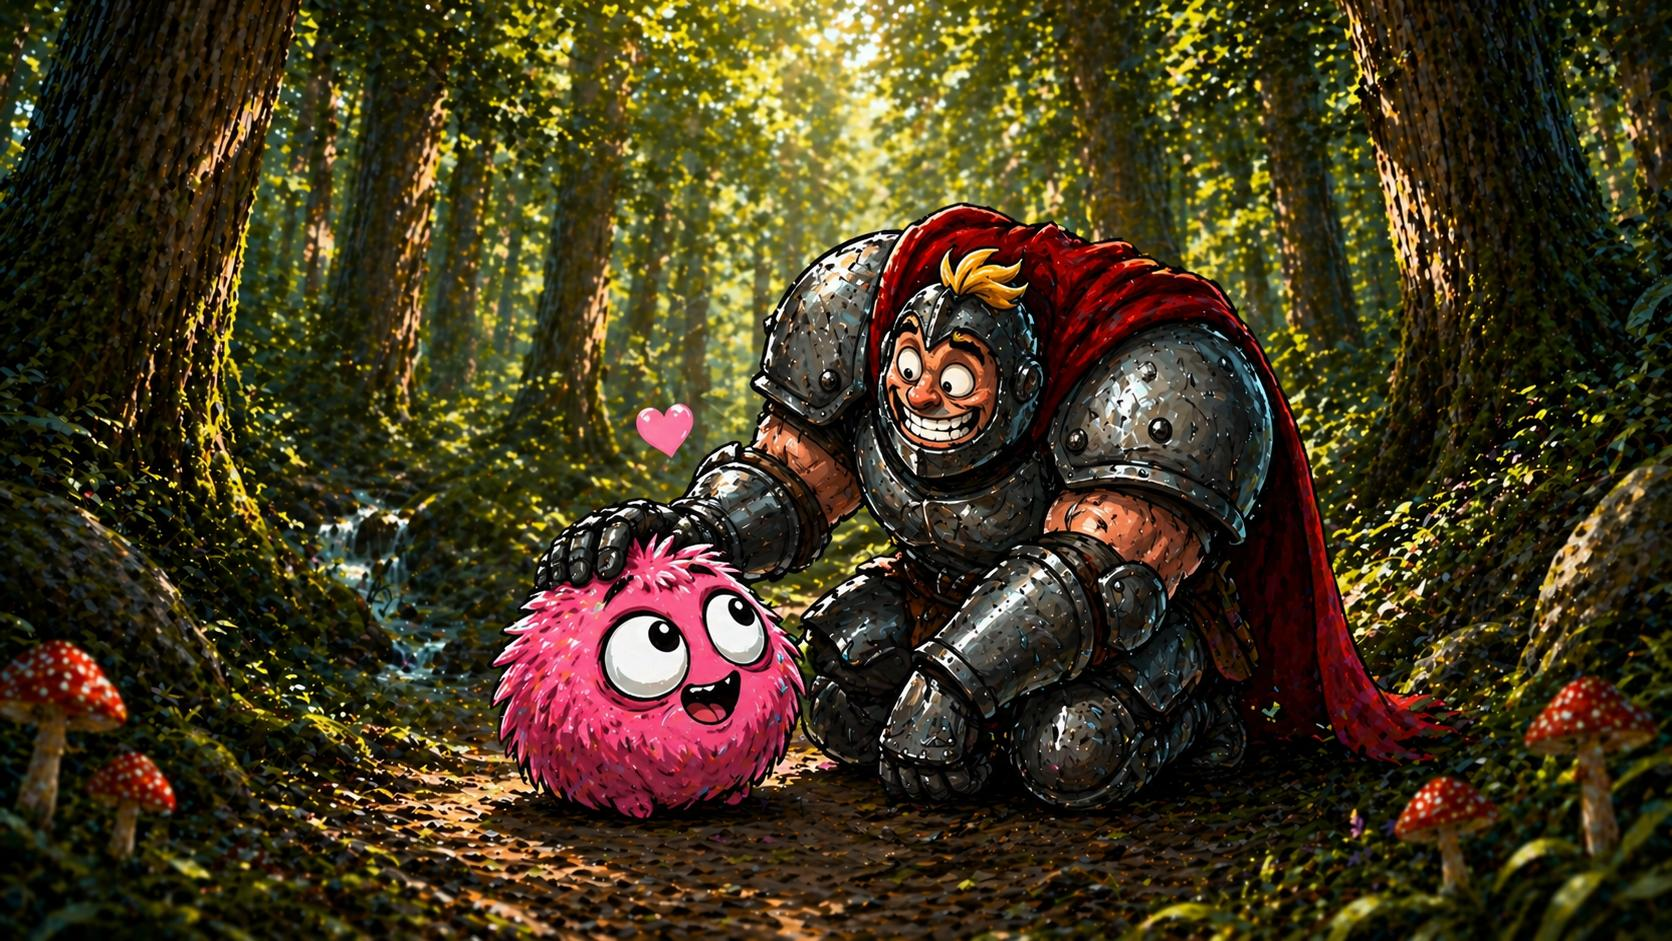
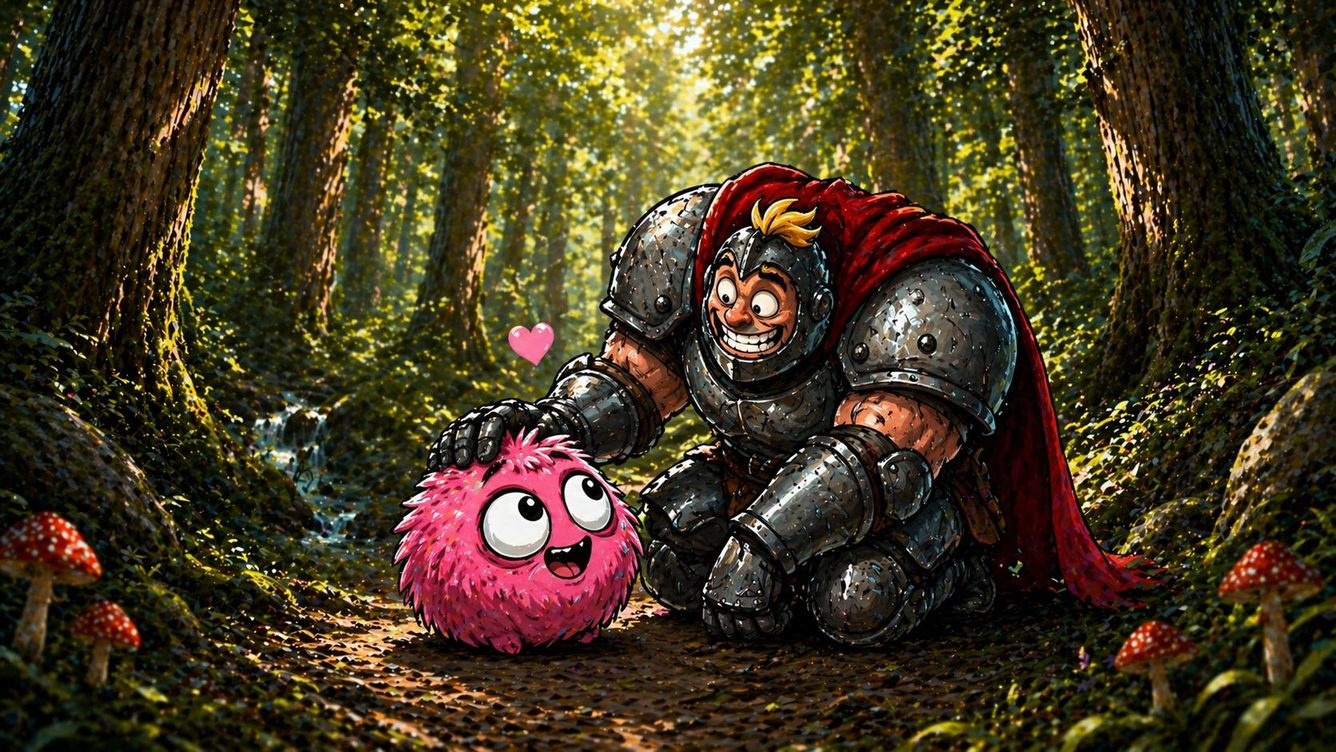
Perf: WebP images + explicit dimensions + fetchpriority; fix lang BCP-47

diff --git a/index.md b/index.md
@@ -6,13 +6,19 @@ image: /server-assistant-docs/assets/banner.jpeg
 ---
 
 <div align="center">
-  <img src="{{ '/assets/logo.png' | relative_url }}" alt="Server Assistant logo" width="240">
+  <picture>
+    <source srcset="{{ '/assets/logo.webp' | relative_url }}" type="image/webp">
+    <img src="{{ '/assets/logo.png' | relative_url }}" alt="Server Assistant logo" width="240" height="231">
+  </picture>
 
   <h1>Server Assistant</h1>
 
   <p><strong>Smart Discord moderation, AI-assisted reports, and customisation for any community.</strong></p>
 
-  <img src="{{ '/assets/banner.jpeg' | relative_url }}" alt="Server Assistant banner — Discord moderation and AI bot" style="max-width: 100%; border-radius: 8px;">
+  <picture>
+    <source srcset="{{ '/assets/banner.webp' | relative_url }}" type="image/webp">
+    <img src="{{ '/assets/banner.jpeg' | relative_url }}" alt="Server Assistant banner — Discord moderation and AI bot" width="1336" height="752" fetchpriority="high" style="max-width: 100%; height: auto; border-radius: 8px;">
+  </picture>
 </div>
 
 <script type="application/ld+json">